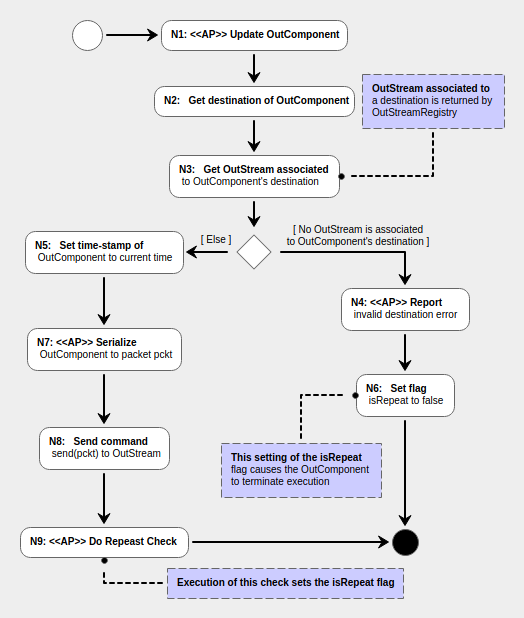
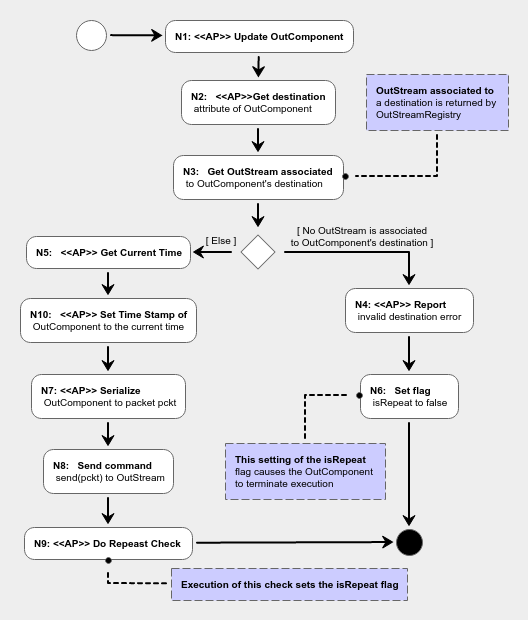
Moving implementation-level APs into cordetfw spec

diff --git a/doc/cordetfw/cordetfw.tex b/doc/cordetfw/cordetfw.tex
@@ -88,6 +88,16 @@ All & E & Fixed editorials in text of adaptation points and requirements \\
 \hline
 6.2.1 & N & Added adaptation point to get group of incoming packet \\
 \hline
+7.1.1 & C & Updated definition of adaptation point OCM-16 to bring it line with implementation; added adaptation point OCM-19 to cover operation to access attributes of OutComponents; added adaptation point to get current time; modified Sent Packet Procedure to show operation to get current time as an adaptation point; added adaptation point OCM-20 to get current time  \\
+\hline
+7.1.2 & N & Corrected statement about setting of OutComopnent's time-stamp; added adaptation point OFT-01 to cover the kinds of OutComponents supported by an application \\
+\hline
+7.2.1 & N & Added adaptation point IFT-01 to cover the kinds of InReports and InCommands supported by an application \\
+\hline
+7.2.3 & C & Adaptation points ICM-18 to 20 have been moved to adaptation point IFT-01 (TBC); adaptation point ICM-21 has been extended to cover all all operations to access InCommand attributes \\
+\hline
+7.2.4 & C & Adaptation point IRP-08 to 10 have been moved to adaptation point IFT-01 (TBC); adaptation point IRP-11 has been extended to cover all all operations to access InCommand attributes \\
+\hline
 \end{longtable}
 
 \begin{longtable}{|p{1.5cm}|p{1cm}|p{8cm}|}
@@ -709,9 +719,12 @@ The \texttt{Make} operation of the OutFactory sets the values of the following a
 \item The source attribute is set to the identifier of the host application.
 \end{itemize}
 
-Thus, a command or report component which is returned by the OutFactory has valid and correct values for the following attributes: service type, command or report sub-type,  discriminant,  identifier, and source. Other attributes must be set as part of the command or report configuration by the host application. Note, however, that the time stamp is set by the OutLoader at the time the OutComponent is loaded in the OutManager (see next section) and the sequence counter is set by the OutStream directly on the out-going packet at the time the packet is handed over to the middleware (see section \ref{sec:OutStream}).
+Thus, a command or report component which is returned by the OutFactory has valid and correct values for the following attributes: service type, command or report sub-type,  discriminant,  identifier, and source. Other attributes must be set as part of the command or report configuration by the host application. Note, however, that the time stamp is set \chgC{at the time the OutComponent is serialized (see section \ref{sec:OutComponent})} and the sequence counter is set by the OutStream directly on the out-going packet at the time the packet is handed over to the middleware (see section \ref{sec:OutStream}).
 
-The OutFactory component does not define any adaptation points in addition to those applicable to generic factory components (see section \ref{sec:CmpInst}). 
+\chgC{The maximum number of OutComponents which a factory may generate is an adaptation point. The range of OutComponent kinds that an OutFactory can generate, namely the set of OutComponent service types, service sub-types and discriminants which the OutFactory recognizes and for which it can generate an OutComponent through its \texttt{make} operation is another adaptation point of the framework. The OutFactory must additionally support the adaptation points defined for a generic factory component (see section \ref{sec:CmpInst}). 
+
+\begin{crAp}{OFT}{Adaptation Points for OutFactory Component}
+\end{crAp}
 
 \begin{crReq}{OFT}{Requirements Applicable to OutFactory Component}
 \end{crReq}
@@ -766,7 +779,10 @@ Depending on the allocation policy used internally in the InFactory, the InComma
 
 A command or report component which is returned by the InFactory has valid values for the following attributes: service type, command or report sub-type, and discriminant. All other attributes must be set as part of the command configuration which is performed under the control of the InLoader (see next section).
 
-The InFactory component does not define any adaptation points in addition to those applicable to generic factory components (see section \ref{sec:CmpInst}). 
+\chgC{The maximum number of InReporta and of InCommands which an InFactory may generate is an adaptation point. The range of InReport and InCommand kinds that an InFactory can generate, namely the set of InReport/InCommand service types, service sub-types and discriminants which the InFactory recognizes and for which it can generate an InReport/InCommand through its \texttt{make} operation is another adaptation point of the framework. The InFactory must additionally support the adaptation points defined for a generic factory component (see section \ref{sec:CmpInst}). 
+
+\begin{crAp}{IFT}{Adaptation Points for InFactory Component}
+\end{crAp}
 
 \begin{crReq}{IFT}{Requirements Applicable to InFactory Component}
 \end{crReq}

diff --git a/doc/cordetfw/CrFwOutCmp.tex b/doc/cordetfw/CrFwOutCmp.tex
@@ -17,9 +17,9 @@ At each execution, the OutComponent performs the Enable Check and if this declar
 
 At each execution, the OutComponent has a chance to be sent to its destination. This is done when the OutComponent is declared to be both ready and enabled by its Ready Check and Enable Check. 
 
-The sending operation is performed by the Send Packet Procedure of figure \ref{fig:SendPacket}. The Send Packet Procedure starts by performing the Update Action. Through this action, the OutComponent acquires the information it must transfer to its destination. By default, this action sets the time stamp attribute of the OutComponent. Applications may want to extend this action to load the values of the OutComponent parameters. For this reason, the Update Action is an adaptation point of the OutComponent.
+The sending operation is performed by the Send Packet Procedure of figure \ref{fig:SendPacket}. The Send Packet Procedure starts by performing the Update Action. Through this action, the OutComponent acquires the information it must transfer to its destination. By default, this action \chgC{does nothing}. Applications may want to extend this action to load the values of the OutComponent parameters. For this reason, the Update Action is an adaptation point of the OutComponent.
 
-The Send Packet Procedure then retrieves the destination of the OutComponent and then interrogates the OutStreamRegistry to obtain the corresponding OutStream (recall that, in an application, there is one instance of OutStream for each command or report destination). If an OutStream can be found (i.e. if the OutComponent's destination is valid), the procedure serializes the OutComponent to generate a packet which is then handed over to the OutStream. This ensures that the command or report will eventually be sent to its destination. The serialization process is an adaptation point. 
+The Send Packet Procedure then retrieves the destination of the OutComponent and then interrogates the OutStreamRegistry to obtain the corresponding OutStream (recall that, in an application, there is one instance of OutStream for each command or report destination). If an OutStream can be found (i.e. if the OutComponent's destination is valid), the procedure \chgC{sets the OutComponent Time Stamp to the current time and} serializes the OutComponent to generate a packet which is then handed over to the OutStream. This ensures that the command or report will eventually be sent to its destination. The serialization process is an adaptation point. \chgC{The operation to get the current time is an adaptation point, too.}
 
 After serializing and handing over the OutComponent to its OutStream, the Send Packet Procedure performs the Repeat Check. This determines whether the OutComponent should be sent to its destination once more (the Repeat Check sets flag \texttt{isRepeat} to true) or whether its life is terminated (the Repeat Check sets flag \texttt{isRepeat} to true). In the latter case, the OutComponent will make a transition to TERMINATED.
 
@@ -32,6 +32,6 @@ If the OutStreamRegistry does not return any OutStream, then the procedure concl
  \label{fig:SendPacket}
 \end{figure}
 
-The OutComponent provides visibility over its internal state but it does not provide automatic notifications in case of changes in its internal state. The OutComponent provides access to the attributes of the command or report it encapsulates but it only predefines dummy values for them. The set and value of command or report attributes is therefore an adaptation point for the OutComponent. 
+The OutComponent provides visibility over its internal state but it does not provide automatic notifications in case of changes in its internal state. The OutComponent provides access to the attributes of the command or report \chgC{it encapsulates}. The set and value of command or report attributes is therefore an adaptation point for the OutComponent. 
 
 The default implementation of the Enable Check uses one of the services provided by the OutRegistry to determine the enable status of a command or report (see section \ref{sec:OutRegistry}).

diff --git a/doc/cordetfw/CrFwInReport.tex b/doc/cordetfw/CrFwInReport.tex
@@ -11,5 +11,5 @@ The InReport component is an extension of the Base Component of section \ref{sec
 
 The behaviour of a report that has been accepted is modelled by the procedure shown in figure \ref{fig:InReportExecution} (the \textit{InReport Execution Procedure}). This procedure is used as execution procedure for the InReport. The procedure simply executes the InReport's Update Action and then terminates. The Update Action is an adaptation point.
 
-The InReport component provides visibility over all attributes of the reports it encapsulates but only predefines dummy values for them. The set and value of the report attributes is therefore an adaptation point for the InCommand.
+The InReport component provides visibility over all attributes of the reports it \chgC{encapsulates. The operation to set and get the} value of the report attributes is therefore an adaptation point for the InCommand.
 

diff --git a/doc/cordetfw/CrFwInCommand.tex b/doc/cordetfw/CrFwInCommand.tex
@@ -29,5 +29,5 @@ The InCommand component is responsible for generating acknowledge reports. The a
 
 The generation of the acknowledge reports is an adaptation point for the InCommand. Note that the acknowledge report for the command acceptance is generated by the InLoader component, see section \ref{sec:InLoader}.
 
-The InCommand component provides visibility over all attributes of the command it encapsulates but only predefines dummy values for them. The set and value of the command attributes is therefore an adaptation point for the InCommand.
+The InCommand component provides visibility over all attributes of the command it \chgC{encapsulates. The operation to set and get the} value of the command attributes is therefore an adaptation point for the InCommand.
 
